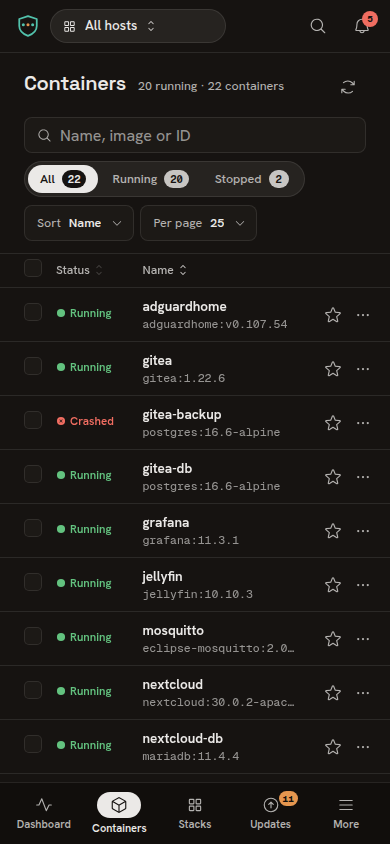
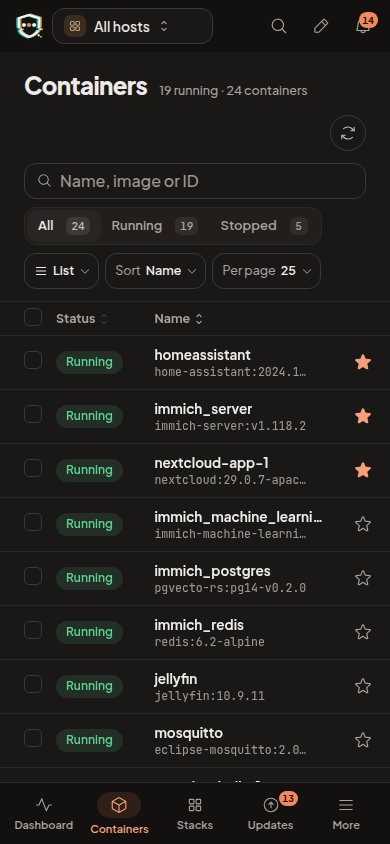
docs: 3.0 screenshots in README and Docker Hub description

diff --git a/docs/screenshots/README.md b/docs/screenshots/README.md
@@ -4,25 +4,33 @@ These PNGs are referenced from the main [`README.md`](../../README.md). Keep the
 **exact filenames** when you replace one.
 
 Desktop shots are 1600 x 1000 px, phone shots 390 x 844 px, PNG at device scale 1,
-losslessly optimised (oxipng), ideally under 400 KB each. Use sample data only: no real
-hostnames, IPs, tokens, keys or personal data.
+losslessly optimised (oxipng). Use sample data only: no real hostnames, IPs, tokens, keys
+or personal data.
 
-The current set was taken from Containly 2.0.0 in English, connected to two throwaway
-Docker-in-Docker hosts (`homeserver` and `nas-keller`) running demo homelab stacks.
+The current set was taken from Containly 3.0.1 in English (Terrakotta theme, Kladdox fonts),
+with the simulated sample hosts `homelab`, `edge-vps`, `nas-01` and `pi-garage` of the public
+demo data (documentation IPs only). The sign-in page comes from a fresh 3.0.1 container.
 
 | Filename | Shows | Mode |
 |---|---|---|
-| `dashboard-dark.png` | Dashboard: status line, key numbers, timeline, live events (README hero) | dark |
+| `dashboard-dark.png` | Dashboard: status line, key numbers, history, live events (README hero) | dark |
 | `dashboard-light.png` | Dashboard | light |
-| `containers-inspector-dark.png` | Container list with the inspector open (Overview tab) | dark |
-| `container-logs-dark.png` | Container inspector, Logs tab | dark |
-| `stack-editor-light.png` | Stack detail with the compose editor | light |
-| `images-cves-dark.png` | Image inspector, vulnerabilities (CVE) tab | dark |
-| `endpoint-host-dark.png` | Endpoint host page | dark |
+| `containers-inspector-dark.png` | Containers grouped by stack, container drawer (Overview tab) | dark |
+| `container-logs-dark.png` | Container drawer, Logs tab | dark |
+| `stack-editor-light.png` | Stack drawer with the compose editor | light |
+| `images-cves-dark.png` | Image drawer, vulnerabilities (CVE) tab | dark |
+| `endpoint-host-dark.png` | Host page with load charts and a chart tooltip | dark |
+| `endpoints-light.png` | Endpoints page, one card per host | light |
+| `updates-dark.png` | Updates table | dark |
+| `permissions-repair-dark.png` | Repair permissions dialog | dark |
+| `deploy-folder-check-light.png` | Deploy review with the host folder check | light |
+| `appearance-light.png` | Settings > Appearance: mode, density, corners, fonts | light |
 | `command-palette-light.png` | Command palette (`Ctrl`/`Cmd` + `K`) searching containers and images | light |
+| `theme-copper-dark.png` | Dashboard in the Copper theme | dark |
 | `login-dark.png` | Sign-in page | dark |
-| `phone-dashboard-dark.png` | Dashboard on a phone (390 x 844) | dark |
+| `phone-dashboard-dark.png` | Dashboard on a phone (390 x 844) with the bottom navigation | dark |
 | `phone-containers-dark.png` | Container list on a phone (390 x 844) | dark |
+| `phone-stacks-light.png` | Stack list on a phone (390 x 844) | light |
 
 To replace a screenshot: copy the file here with the matching name, optimise it
 (for example `oxipng -o 6 --strip safe <file>`), then commit it.

diff --git a/README.md b/README.md
@@ -27,7 +27,6 @@
 
 > **New in 3.0:** a new design for the whole app, the new «Nachtschild» logo, a much richer
 > Endpoints page, pinned stacks, a page edit mode and more (see the [changelog](CHANGELOG.md)).
-> The screenshots on this page still show 2.x; new ones follow shortly.
 
 Containly is built for homelabs and small fleets: a few Docker hosts at home, a NAS, a
 VPS or two, usually behind a reverse proxy. It shows what needs attention first, lets you
@@ -323,13 +322,21 @@ Forum: [forum.containly.ch](https://forum.containly.ch)
 | ![Live container logs](docs/screenshots/container-logs-dark.png) | ![Stack detail with the compose editor, light mode](docs/screenshots/stack-editor-light.png) |
 | **Image CVEs** | **Host page** |
 | ![Image inspector listing CVEs](docs/screenshots/images-cves-dark.png) | ![Endpoint host page](docs/screenshots/endpoint-host-dark.png) |
-| **Command palette** | **Sign-in** |
-| ![Command palette searching containers and images, light mode](docs/screenshots/command-palette-light.png) | ![Sign-in page](docs/screenshots/login-dark.png) |
+| **Endpoints** | **Updates** |
+| ![Endpoints page with a card per host: load, containers, updates and what needs attention, light mode](docs/screenshots/endpoints-light.png) | ![Updates table with change type, host, stack, release date, size and CVEs](docs/screenshots/updates-dark.png) |
+| **Repair permissions** | **Folder check before deploy** |
+| ![Repair permissions dialog: the container runs as 1000:1000 and gets write access to its folder and volume](docs/screenshots/permissions-repair-dark.png) | ![Deploy review listing the host folders of a stack with an owner warning, light mode](docs/screenshots/deploy-folder-check-light.png) |
+| **Appearance** | **Command palette** |
+| ![Appearance settings: mode, density, corners and font pairings, light mode](docs/screenshots/appearance-light.png) | ![Command palette searching containers and images, light mode](docs/screenshots/command-palette-light.png) |
+| **Sign-in** | **One of 15 themes (Copper)** |
+| ![Sign-in page](docs/screenshots/login-dark.png) | ![Dashboard in the Copper theme, dark mode](docs/screenshots/theme-copper-dark.png) |
 
 <p align="center">
-  <img src="docs/screenshots/phone-dashboard-dark.png" alt="Dashboard on a phone" width="260">
+  <img src="docs/screenshots/phone-dashboard-dark.png" alt="Dashboard on a phone with the bottom navigation" width="240">
   &nbsp;&nbsp;
-  <img src="docs/screenshots/phone-containers-dark.png" alt="Container list on a phone" width="260">
+  <img src="docs/screenshots/phone-containers-dark.png" alt="Container list on a phone" width="240">
+  &nbsp;&nbsp;
+  <img src="docs/screenshots/phone-stacks-light.png" alt="Stack list on a phone, light mode" width="240">
 </p>
 
 ---
